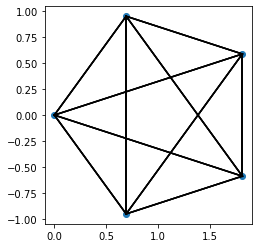
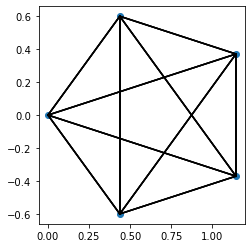
Arreglo menor: faltaba multiplicar por sqrt(2/5)

diff --git a/Codigo/Caso1.py b/Codigo/Caso1.py
@@ -21,7 +21,7 @@ v4 = np.array([0, math.sin(math.pi/5), -math.sin(2*math.pi/5), math.sin(2*math.p
 m1 = np.array([p0,a1a2,a1a3,a1a4,a1a5])
 m2 = np.array([v3,v4])
 
-m3 = np.dot(m1,m2.transpose())
+m3 = math.sqrt(2/5)*np.dot(m1,m2.transpose())
 
 print(m3)
 print(m3[:,0])
